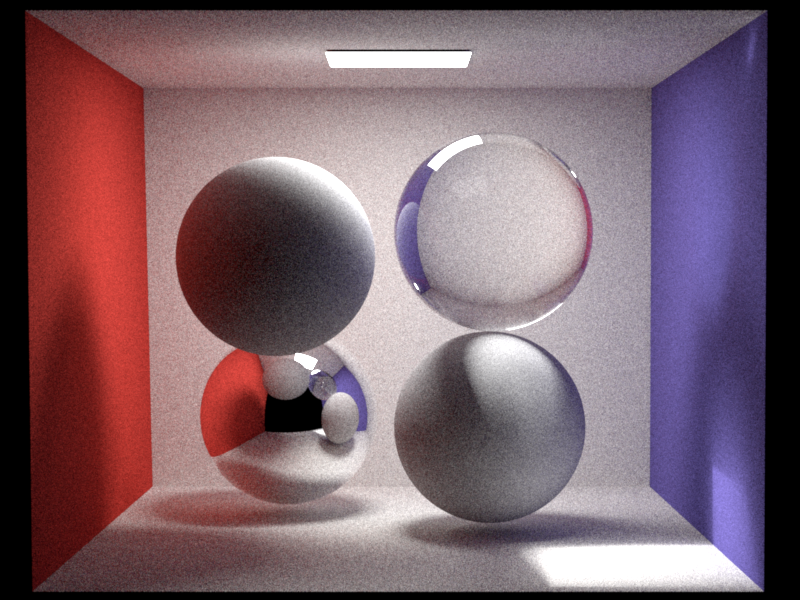
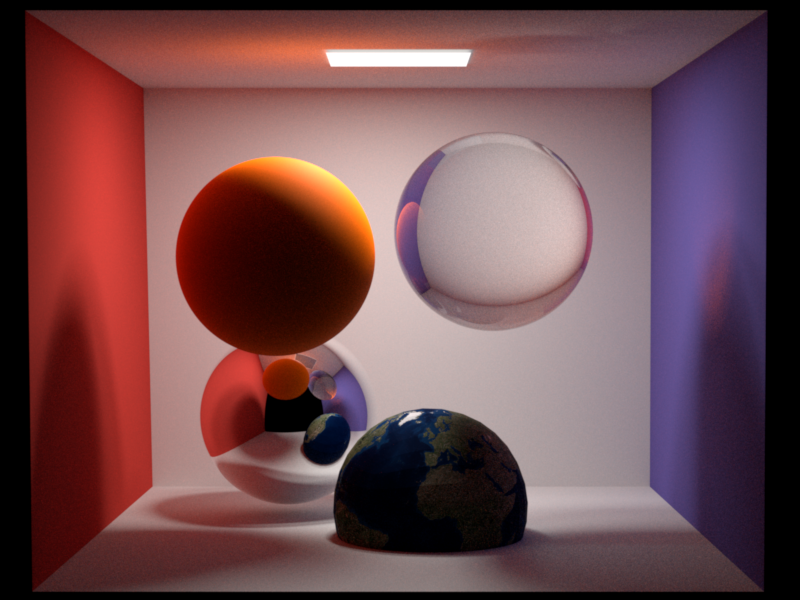
add MIS

diff --git a/src/integrators/pathmis.cpp b/src/integrators/pathmis.cpp
@@ -4,80 +4,104 @@
 
 PHOENIX_NAMESPACE_BEGIN
 
-class PathmisIntegrator : public Integrator {
- public:
-  PathmisIntegrator(const PropertyList &props) {}
-  Color3f Li(shared_ptr<Scene> scene, shared_ptr<Sampler> sampler, const Ray &ray) const override {
-    return {.0f};
-  }
+    class PathmisIntegrator : public Integrator {
+    public:
+        PathmisIntegrator(const PropertyList &props) {}
 
-  Color3f SampleLight(shared_ptr<Scene> scene, shared_ptr<Sampler> sampler, const Ray &ray, int depth = 0) {
-    Interaction its;
-    if (!scene->Intersect(ray, its)) {
-      return Color3f(0.0f);
-    }
+        Color3f Li(shared_ptr<Scene> scene, shared_ptr<Sampler> sampler, const Ray &ray) const override {
+            Color3f Li = 0, t = 1;
+            Ray rayR = ray;
+            float prob = 1, w_mats = 1, w_ems = 1;
+            Color3f f(1, 1, 1);
 
-    if (its.shape->GetBSDF()->IsDiffuse()) {
-      if (sampler->Next1D() > 0.95f)
-        return Color3f(.0f);
-      else {
-        BSDFQueryRecord bsdfQ(its.geoFrame.ToLocal(-ray.dir_));
-        Color3f albedo = its.shape->GetBSDF()->Sample(bsdfQ, sampler->Next2D());
-        return 1.057 * albedo * SampleLight(scene, sampler, Ray(its.point, its.geoFrame.ToWorld(bsdfQ.wo)));
-      }
-    }
+            while (true) {
+                Interaction its;
 
-    float emit_pdf;
-    auto emit = scene->GetRandomEmitter(sampler, emit_pdf);
-    EmitterQueryRecord eqr(its.point);
-    Color3f Le = emit->Sample(eqr, sampler->Next2D());
-    Vector3f distace_vec = eqr.wi.normalized();
-    Color3f directColor = Color3f(.0f);
+                if (!scene->Intersect(rayR, its)) {
+                    if (scene->env_light_ == nullptr) {
+                        return Li;
+                    } else {
+                        EmitterQueryRecord lRec;
+                        lRec.wi = rayR.dir_;
+                        return Li + w_mats * t * scene->env_light_->Eval(lRec);
+                    }
+                }
 
-    float object_normal = abs(its.normal.dot(distace_vec));
+                // -------------------------------------Emitted--------------------------------------- //
+                Color3f Le = 0;
+                if (its.shape->IsEmitter()) {
+                    EmitterQueryRecord lRecE(rayR.orig_, its.point, its.geoFrame.n);
+                    Le = its.shape->GetEmitter()->Eval(lRecE);
+                    Le = Color3f(1);
+                }
+                Li += t * w_mats * Le;
+//                Li=Le;
 
-    if (its.shape->IsEmitter()) {
-      if (depth == 0) {
-        return its.shape->GetEmitter()->Sample(eqr, sampler->Next2D());
-      } else {
-        return Color3f(.0f);
-      }
-    }
+                // -------------------------------------Russian roulette--------------------------------------- //
+                prob = std::min(t.maxCoeff(), .99f);
+                if (sampler->Next1D() >= prob) {
+                    return Li;
+                }
 
-    BSDFQueryRecord bsdfQ = BSDFQueryRecord(its.geoFrame.ToLocal(ray.dir_), its.geoFrame.ToLocal(distace_vec));
-    Color3f bsdf = its.shape->GetBSDF()->Eval(bsdfQ);
+                t /= prob;
 
-    float lightPdf = emit_pdf * emit->Pdf(eqr);
+                // -------------------------------------EMS--------------------------------------- //
+                Color3f L_ems = 0;
 
-    float modifiedLightPdf = lightPdf;
-    float distance = eqr.wi.dot(eqr.wi);
-    modifiedLightPdf *= distance;
+                // get a random emitter
+                float emiter_pdf;
+                const auto emitter = scene->GetRandomEmitter(sampler, emiter_pdf);
 
-    float bsdfPdf = its.shape->GetBSDF()->Pdf(bsdfQ);
-    float weight = modifiedLightPdf / (modifiedLightPdf + bsdfPdf);
+                // reflected
+                EmitterQueryRecord lRec_ems;
+                lRec_ems.ref = its.point;
+                Color3f Li_ems = emitter->Sample(lRec_ems, sampler->Next2D()) * scene->GetEmitters().size();
+                float pdf_ems = emitter->Pdf(lRec_ems);
 
-    Color3f albedo = its.shape->GetBSDF()->Sample(bsdfQ, sampler->Next2D());
+                // BSDF
+                BSDFQueryRecord bRec_ems(its.geoFrame.ToLocal(-rayR.dir_), its.geoFrame.ToLocal(lRec_ems.wi));
+                bRec_ems.uv = its.uv;
+                Color3f f_ems = its.shape->GetBSDF()->Eval(bRec_ems, its.albedo);
+                if (abs(pdf_ems + its.shape->GetBSDF()->Pdf(bRec_ems)) > EPSILON)
+                    w_ems = pdf_ems / (pdf_ems + its.shape->GetBSDF()->Pdf(bRec_ems));
 
+                // check if shadow ray is occluded
+                Interaction its_ems;
+                if (!scene->Intersect(lRec_ems.shadowRay, its_ems))
+                    L_ems = f_ems * Li_ems * std::max(0.f, its.geoFrame.ToLocal(lRec_ems.wi).z());
 
-    Interaction temp_its;
-    if (!scene->Intersect(eqr.shadowRay, temp_its) || its.shape->GetEmitter() != emit) {
-      directColor = object_normal * Le * bsdf * 1.f / emit_pdf;
-    }
+                Li += t * w_ems *L_ems;
+//                Li=Li.abs();
+//                    Li=Color3f(1);
 
-    if (sampler->Next1D() < 0.95f && depth < 10)
-      return weight * 1.f / 0.95 * (directColor
-          + albedo * SampleLight(scene, sampler, Ray(its.point, its.geoFrame.ToWorld((bsdfQ.wo))), depth + 1));
-    else
-      return Color3f(0.f);
+                // -------------------------------------BSDF sampling--------------------------------------- //
+                BSDFQueryRecord bRec(its.geoFrame.ToLocal(-rayR.dir_));
+                Color3f f = its.shape->GetBSDF()->Sample(bRec, sampler->Next2D(), its.albedo);
+                t *= f;
+                // shoot next ray
+                rayR = Ray(its.point, its.geoFrame.ToWorld(bRec.wo));
 
-  }
+                // ----------------------------------MATS weight for next Le----------------------------------- //
+                float pdf_mats = its.shape->GetBSDF()->Pdf(bRec);
 
-  Color3f SampleBSDF(shared_ptr<Scene> scene, shared_ptr<Sampler> sampler, const Ray &ray) {
+                Interaction itsR;
+                if (scene->Intersect(rayR, itsR)) {
+                    if (itsR.shape->IsEmitter()) {
+                        EmitterQueryRecord lRec_mats = EmitterQueryRecord(its.point, itsR.point, itsR.geoFrame.n);
+                        if ((pdf_mats + itsR.shape->GetEmitter()->Pdf(lRec_mats)) > EPSILON)
+                            w_mats = pdf_mats / (pdf_mats + itsR.shape->GetEmitter()->Pdf(lRec_mats));
+                    }
+                } else if (scene->env_light_ != nullptr) {
+                    EmitterQueryRecord lRec_mats;
+                    lRec_mats.wi = rayR.dir_;
+                    if (abs(pdf_mats + scene->env_light_->Pdf(lRec_mats)) > EPSILON)
+                        w_mats = pdf_mats / (pdf_mats + scene->env_light_->Pdf(lRec_mats));
+                }
 
-  }
+            }
+        }
+    };
 
-};
-
-PHOENIX_REGISTER_CLASS(PathmisIntegrator, "pathmis");
+    PHOENIX_REGISTER_CLASS(PathmisIntegrator, "pathmis");
 
 PHOENIX_NAMESPACE_END

diff --git a/src/emitters/area.cpp b/src/emitters/area.cpp
@@ -11,65 +11,63 @@
 PHOENIX_NAMESPACE_BEGIN
 
 
-class AreaLight : public Emitter
-{
+    class AreaLight : public Emitter {
 
- public:
-  Color3f radiance;
- public:
+    public:
+        Color3f radiance;
+    public:
 
-  explicit AreaLight(const PropertyList& props)
-  {
-    radiance = props.GetColor("radiance");
-  }
+        explicit AreaLight(const PropertyList &props) {
+            radiance = props.GetColor("radiance");
+        }
 
-  Color3f Sample(EmitterQueryRecord& lRec, const Point2f& sample)const override
-  {
+        Color3f Sample(EmitterQueryRecord &lRec, const Point2f &sample) const override {
 
-    SampleData sRec =  shape_->SampleSurface(sample);
+            SampleData sRec = shape_->SampleSurface(sample);
 
-    lRec.p = sRec.point;
-    lRec.pdf = sRec.pdf;
-    lRec.n = sRec.normal;
-    lRec.wi = (lRec.p - lRec.ref).normalized();
+            lRec.p = sRec.point;
+            lRec.pdf = sRec.pdf;
+            lRec.n = sRec.normal;
+            lRec.wi = (lRec.p - lRec.ref).normalized();
 
-    Ray shadowRay(lRec.ref, lRec.wi, EPSILON,
-                    (lRec.p - lRec.ref).norm() - EPSILON);
-    lRec.shadowRay = shadowRay;
-    if (Pdf(lRec) > 0)
-      return Eval(lRec) / Pdf(lRec);
-    else
-      return Color3f(0.f);
-    return { 0,0,0 };
+            Ray shadowRay(lRec.ref, lRec.wi, EPSILON,
+                          (lRec.p - lRec.ref).norm() - EPSILON);
+            lRec.shadowRay = shadowRay;
+            if (Pdf(lRec) > 0)
+                return Eval(lRec) / Pdf(lRec);
+            else
+                return Color3f(0.f);
+            return {0, 0, 0};
 
-  }
+        }
 
-  [[nodiscard]] Color3f Eval(const EmitterQueryRecord& lRec) const override
-  {
-    float cos_theta_i = lRec.n.dot(-lRec.wi);
+        [[nodiscard]] Color3f Eval(const EmitterQueryRecord &lRec) const override {
+            float cos_theta_i = lRec.n.dot(-lRec.wi);
 
-    if ((cos_theta_i) >= 0) {
-      return radiance;
-    }
-    else {
-      return Color3f(0.f);
-    }
-  }
+            if ((cos_theta_i) >= 0) {
+                return radiance;
+            } else {
+                return Color3f(0.f);
+            }
+        }
 
-  Color3f GetColor()const override{
-    return radiance;
-  }
-  [[nodiscard]] float Pdf(const EmitterQueryRecord& lRec) const override
-  {
-    float _pdf = lRec.pdf;
+        Color3f GetColor() const override {
+            return radiance;
+        }
 
-    float cosin = std::abs(lRec.n.dot(-lRec.wi));
+        [[nodiscard]] float Pdf(const EmitterQueryRecord &lRec) const override {
+            SampleData sRec(lRec.ref, lRec.p);
+            sRec.normal = lRec.n;
 
-    return _pdf * (lRec.p - lRec.ref).squaredNorm() / cosin;
-  }
-};
+            float cosin = lRec.n.dot(-lRec.wi);
+            if (cosin <= 0) {
+                return 0;
+            }
+            return shape_->PdfSurface(sRec) * (lRec.p - lRec.ref).squaredNorm() / cosin;
+        }
+    };
 
-PHOENIX_REGISTER_CLASS(AreaLight,"area");
+    PHOENIX_REGISTER_CLASS(AreaLight, "area");
 
 PHOENIX_NAMESPACE_END
 

diff --git a/src/shapes/sphere.cpp b/src/shapes/sphere.cpp
@@ -26,13 +26,16 @@ class Sphere : public Shape {
     return {embree.AddSphere(center_, radius_)};
   }
 
+  float PdfSurface(const SampleData& sRec) const override{
+      return inv_area_* SquareToUniformSpherePdf(Vector3f(0,0,1));
+  }
   [[nodiscard]] SampleData SampleSurface(const Point2f &sample) const override {
     auto dir = SquareToUniformSphere(sample);
     SampleData res;
 
     res.point = center_ + dir * radius_;
-    res.normal = (center_ + dir).normalized();
-    res.pdf = inv_area_;
+    res.normal = dir;
+    res.pdf = SquareToUniformSpherePdf(Vector3f(0,0,1))*inv_area_;
 
     return res;
   }

diff --git a/include/phoenix/core/sampledata.h b/include/phoenix/core/sampledata.h
@@ -8,20 +8,26 @@
 #include<phoenix/core/phoenix.h>
 #include<phoenix/core/vector.h>
 
+#include <utility>
+
 
 PHOENIX_NAMESPACE_BEGIN
 
 
-struct SampleData
-{
-  Point3f point;
-  Normal3f normal;
-  float pdf;
-};
+    struct SampleData {
+        Point3f point;
+        Point3f ref;
+        Normal3f normal;
+        float pdf{};
+        SampleData(){}
+
+        SampleData(Point3f _ref) : ref(std::move(_ref)) {}
+
+        SampleData(Point3f _ref, Point3f _p) : ref(std::move(_ref)), point(std::move(_p)) {}
+    };
 
 
 PHOENIX_NAMESPACE_END
-
 
 
 #endif //PHOENIX_INCLUDE_PHOENIX_CORE_SAMPLEDATA_H_

diff --git a/include/phoenix/core/shape.h b/include/phoenix/core/shape.h
@@ -28,6 +28,7 @@ class Shape : public PhoenixObject {
   virtual vector<unsigned int> AddToEmbree(Pembree &embree) = 0;
   [[nodiscard]] float GetArea() const { return area_; };
   [[nodiscard]] virtual SampleData SampleSurface(const Point2f &sample) const = 0;
+  [[nodiscard]] virtual float PdfSurface(const SampleData& sRec)const =0;
   void AddChild(shared_ptr<PhoenixObject> child) override;
   virtual Color3f GetTextureColor(unsigned int geoid,unsigned int priid, Point2f uv) const { return {0.0f}; };
   shared_ptr<Emitter> GetEmitter() const { return emitter_; }

diff --git a/src/core/model.cpp b/src/core/model.cpp
@@ -99,7 +99,7 @@ SampleData Model::SampleSurface(Point2f sample) const {
   float pdf;
   auto index = dpdf_.Sample(sample.x(), pdf);
   auto res = meshes_[index]->SamplePoint(sample);
-  res.pdf *= pdf;
+  res.pdf = dpdf_.GetNormalization();
   return meshes_[index]->SamplePoint(sample);
 }
 shared_ptr<Texture> Model::LoadMaterialTextures(aiMaterial *mat,

diff --git a/src/shapes/obj.cpp b/src/shapes/obj.cpp
@@ -51,6 +51,10 @@ class OBJ : public Shape {
     return model.SampleSurface(sample);
   }
 
+  float PdfSurface(const SampleData& sRec)const override{
+      return model.dpdf_.GetNormalization();
+  }
+
   Color3f GetTextureColor(unsigned int geoid, unsigned int priid, Point2f uv) const override {
     const shared_ptr<Mesh> mesh = dict_.at(geoid);
 

diff --git a/src/emitters/environment.cpp b/src/emitters/environment.cpp
@@ -1,0 +1,18 @@
+//
+// Created by 焦智洋 on 2021/4/20.
+//
+
+#include<phoenix/core/emitter.h>
+#include<phoenix/core/color.h>
+
+#include<phoenix/core/sampledata.h>
+#include<phoenix/core/shape.h>
+
+PHOENIX_NAMESPACE_BEGIN
+
+    class EnvironmentEmitter : public Emitter {
+
+    };
+
+
+PHOENIX_NAMESPACE_END

diff --git a/readme.md b/readme.md
@@ -1,5 +1,4 @@
 # My render
 
-![](image/cbox_earth.png)
 
 ![](image/cbox.png)
